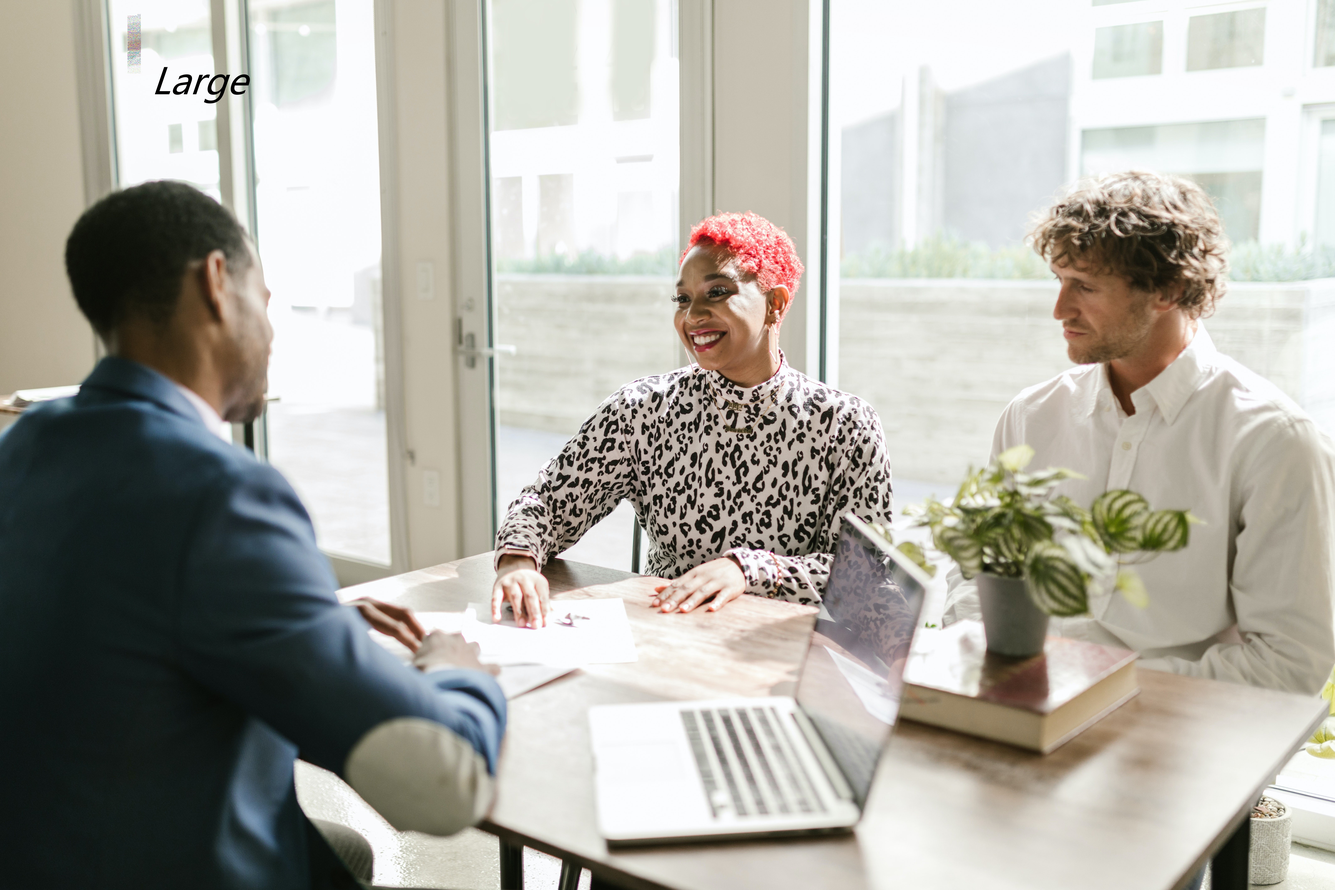
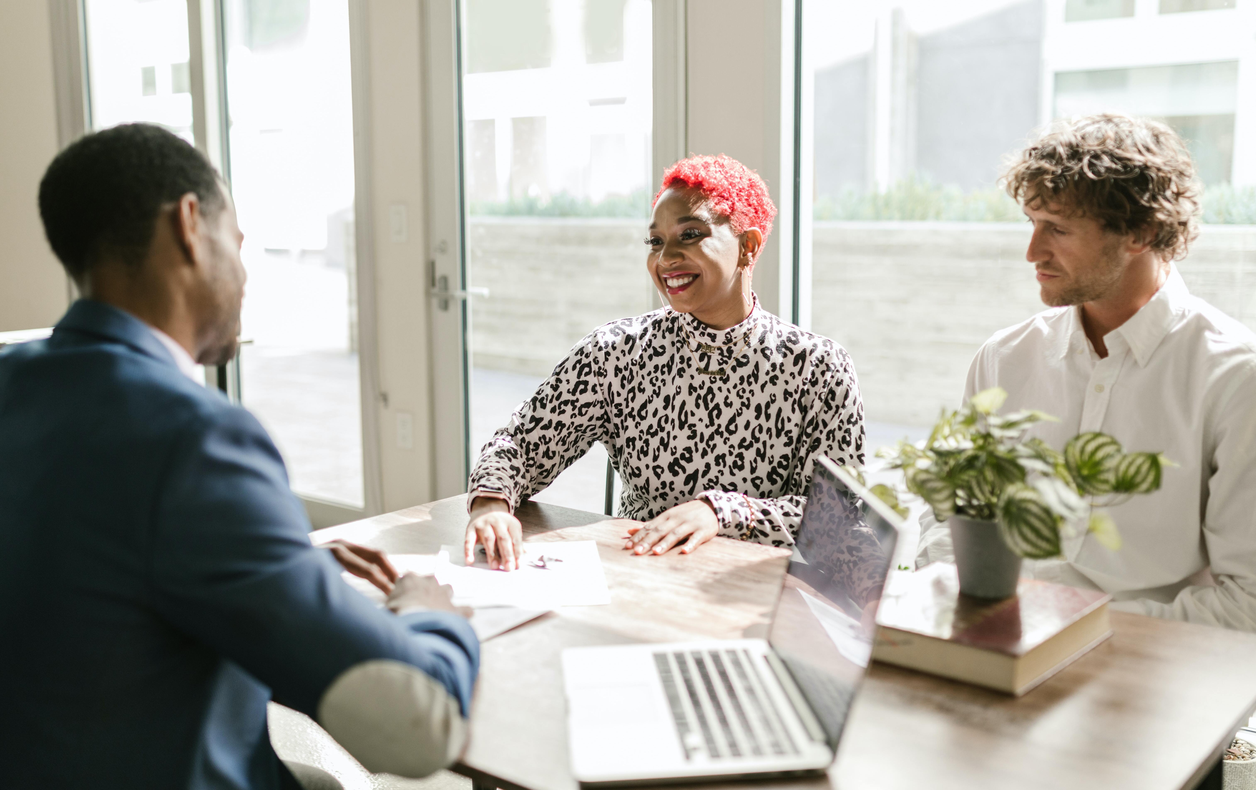
update

diff --git a/chamber/index.html b/chamber/index.html
@@ -73,9 +73,9 @@
             srcset="images/wdd230-org-small.jpg 480w,
                     images/wdd230-org-medium.jpg 768w,
                     images/wdd230-org-large.jpg 1024w"
-            sizes="(max-width: 480px) 100vw,
-                    (max-width: 768px) 80vw,
-                    50vw"
+            sizes="(min-width: 1480px) calc(60vw - 48px),
+                    (min-width: 1040px) calc(86.43vw - 434px),
+                    calc(100vw - 44px)"
             alt="This is the call to action image">
           </figure>
         </div>
@@ -116,8 +116,8 @@
         
       </div>
       <div class="join">
-        <h2>Join Us</h2>
-        <p>All business owners are free to join us. All you need to do is to fill out the membership form <a href="join.html">here</a>and we will rech out to you.</p> 
+        <h2> <a href="join.html"></a>Join Us</h2>
+        <p>All business owners are free to join us. All you need to do is to fill out the membership form <a href="join.html">here</a> and we will rech out to you.</p> 
       </div>
       <div class="spotlight">
         <div class="spot1">
@@ -139,7 +139,7 @@
     </main>
 
     <footer>
-      <p>OpenWeatherMap.org API Test</p>
+      <p> <a href="https://openweathermap.org/">Open Weather API Test</a></p>
       <div onload="onPageLoad()">
         <p>Days between visits: <span id="daysBetweenVisits"></span></p>
     </div>

diff --git a/chamber/styles/large.css b/chamber/styles/large.css
@@ -6,15 +6,13 @@
     } */
     .call-button {
         position: absolute;
-        bottom: 190px;
+        bottom: 330px;
         left: 60%;
         height: 4rem;
         width: 13rem;
-        /* right: 30px; */
+        font-size: 19px;
     }
-    /* main {
-        min-width: fit-content;
-    } */
+   
 
 
     #banner,

diff --git a/chamber/styles/base.css b/chamber/styles/base.css
@@ -142,6 +142,7 @@ nav ul.open {
   top: -240px;
   right: 80%;
   color: #083667;
+  
   padding-left: 15px;
  }
 
@@ -176,7 +177,7 @@ nav ul.open {
   padding: 2px;
   box-shadow: 0 0 5px rgba(0, 0, 0, 0.5);
   border-radius: 8px;
-  font-size: 1px;
+  font-size: 13px;
   margin: 20px;
   
 }

diff --git a/chamber/discover.html b/chamber/discover.html
@@ -135,7 +135,7 @@
     </main>
 
     <footer>
-        <div onload="onPageLoad()">
+        <div>
             <p>Days between visits: <span id="daysBetweenVisits"></span></p>
         </div>
       <div class="information">

diff --git a/chamber/styles/medium.css b/chamber/styles/medium.css
@@ -5,7 +5,7 @@
         left: 60%;
         height: 4rem;
         width: 12rem;
-        /* right: 30px; */
+        font-size: 16px;
     }
 
     .grid-container p{

diff --git a/chamber/scripts/number-of-days.js b/chamber/scripts/number-of-days.js
@@ -20,3 +20,4 @@
     }
 
     onPageLoad()
+    onload="onPageLoad(onLoad)"
